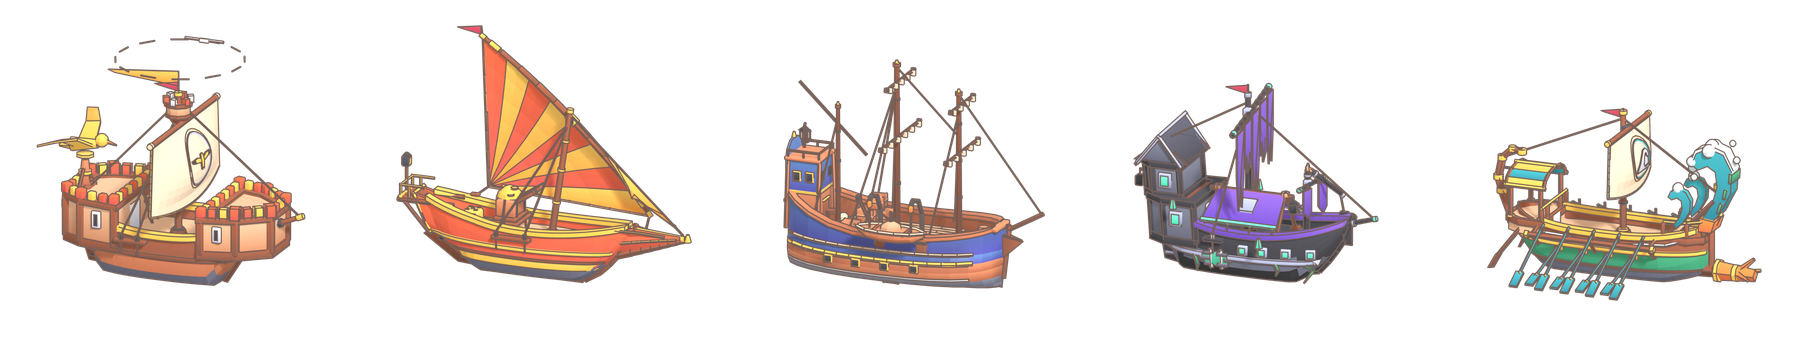
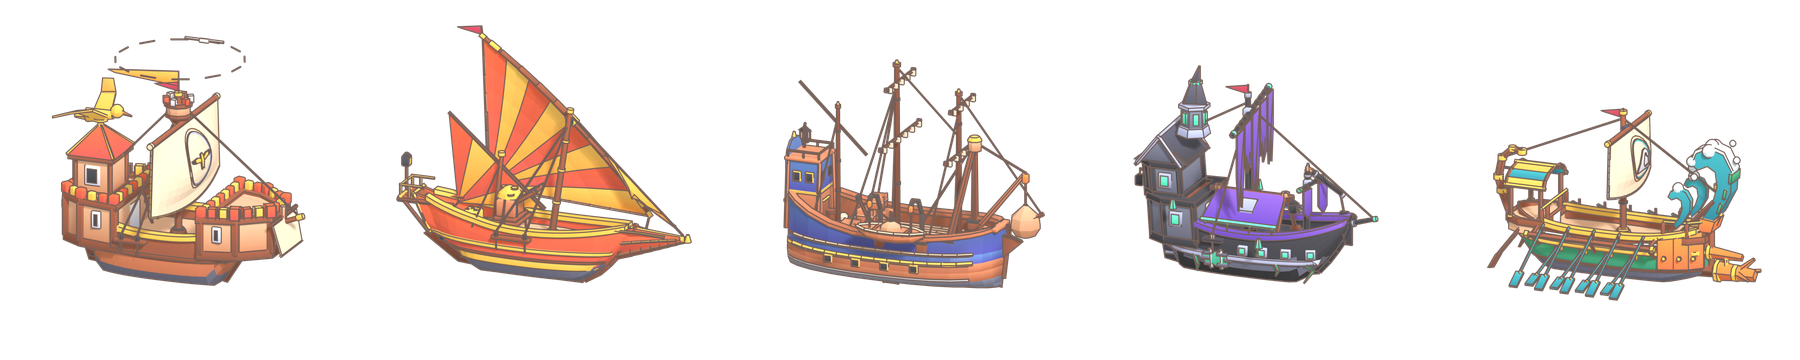
docs: change each ship's structure with its skill in the V0.8 skills design sheet
The user meant the model itself, not only its colours: with the skill open the cog gains a red-roofed lookout tower
and a spritsail, the xebec a second mast and sail, the fluyt a salvage derrick in the bows, the ghost ship a belfry
and a bent spire on its tower, the galley bronze cheek plates and an upper ram. All stay under the ship-pick camera's
5.6 box. Still waiting for approval; nothing is modelled into the ships yet.

diff --git a/scripts/blender/blockout-skills.py b/scripts/blender/blockout-skills.py
@@ -77,16 +77,12 @@ def ball(name, centre, radius, mat):
 
 
 def standard_skill():
-    """好兆頭: a gilded albatross with its wings spread, on a turned post at the aftcastle's stern rail (the ship is
-    named for it; the owner looks at the stern)."""
-    y0 = DECK + 1.05  # the aftcastle's deck
-    z = -2.78
-    box("skill-plinth", (0, y0 + 0.07, z), (0.62, 0.14, 0.5), "woodDark", bevel=0.03)
-    for s in (-1, 1):
-        beam(f"skill-knee{s}", (s * 0.6, y0 + 0.02, z), (s * 0.14, y0 + 0.62, z), 0.1, "woodDark", sides=4)
-    lathe("skill-post", (0, z), [(0.16, y0 + 0.12), (0.11, y0 + 0.4), (0.15, y0 + 0.5), (0.1, y0 + 0.9), (0.2, y0 + 1.0)], "wood", sides=8)
-    lathe("skill-collar", (0, z), [(0.2, y0 + 0.44), (0.2, y0 + 0.54)], "gold", sides=8)
-    lathe("skill-perch", (0, z), [(0.26, y0 + 0.98), (0.26, y0 + 1.06)], "gold", sides=8)
+    """好兆頭: a gilded albatross with its wings spread, perched on the peak of the lookout tower (the ship is named for
+    it; the owner looks at the stern)."""
+    y0 = DECK + 2.0  # the peak of the lookout tower's roof (standard_build)
+    z = -2.3
+    lathe("skill-perch-stem", (0, z), [(0.1, y0 + 0.9), (0.07, y0 + 1.2)], "gold", sides=8)
+    lathe("skill-perch", (0, z), [(0.22, y0 + 1.18), (0.22, y0 + 1.25)], "gold", sides=8)
     yb = y0 + 1.3
     beam("skill-body", (0, yb, z - 0.42), (0, yb + 0.1, z + 0.4), 0.42, "gold", sides=8, taper=0.6)
     ball("skill-head", (0, yb + 0.22, z + 0.52), 0.2, "gold")
@@ -234,6 +230,119 @@ if os.environ.get("LIST_PARTS"):
     import collections
     seen = collections.Counter((re.sub(r"[-.]?[-\d.]+$", "", ob.name), mat) for ob, mat, _ in PARTS)
     print("PARTS", SHIP, sorted(seen.items()))
+def quad_slab(name, pts, thick, mat, axis=(0, 1, 0)):
+    """A thin convex slab on four corner points, thickened along `axis` (a sail, a shield plate, a roof face)."""
+    ax = Vector(axis) * thick
+    verts = [tuple(Vector(p) + ax) for p in pts] + [tuple(Vector(p)) for p in pts]
+    return mesh_from(name, verts, [[0, 1, 2, 3], [7, 6, 5, 4], [0, 4, 5, 1], [1, 5, 6, 2], [2, 6, 7, 3], [3, 7, 4, 0]], mat, convex=True)
+
+
+def standard_build():
+    """The cog is rebuilt as a bigger ship: a roofed lookout tower raised on the aftcastle (the gilded albatross now
+    perches on its peak) and a spritsail set under the bowsprit."""
+    y0, z = DECK + 1.05, -2.3
+    plan = [(0.62, z + 0.55), (0.62, z - 0.55), (-0.62, z - 0.55), (-0.62, z + 0.55)]
+    plan_solid("skill-tower", plan, y0, y0 + 1.15, "sandstone")
+    plan_ring("skill-tower-foot", offset(plan, 0.08), offset(plan, -0.02), y0, y0 + 0.14, "woodDark")
+    plan_ring("skill-tower-eave", offset(plan, 0.16), offset(plan, -0.02), y0 + 1.1, y0 + 1.24, "woodDark")
+    for k, (x, zc) in enumerate(plan):
+        beam(f"skill-tower-post{k}", (x, y0, zc), (x, y0 + 1.15, zc), 0.14, "woodDark", sides=4)
+    for sx in (-1, 1):
+        framed_opening(f"skill-tower-win{sx}", (sx * 0.62, y0 + 0.62, z), (0.3, 0.42), True)
+    framed_opening("skill-tower-win-aft", (0, y0 + 0.62, z - 0.55), (0.34, 0.42), False)
+    # Pyramid roof in the castle's red, with gold hips.
+    apex = (0, y0 + 2.05, z)
+    eaves = offset(plan, 0.18)
+    for k in range(4):
+        (xa, za), (xb, zb) = eaves[k], eaves[(k + 1) % 4]
+        mesh_from(f"skill-roof{k}", [(xa, y0 + 1.22, za), (xb, y0 + 1.22, zb), apex, (xa * 0.9, y0 + 1.16, za * 0.9 + z * 0.1), (xb * 0.9, y0 + 1.16, zb * 0.9 + z * 0.1)],
+                  [[0, 1, 2], [0, 3, 4, 1], [1, 4, 2], [3, 0, 2], [4, 3, 2]], "roofRed", convex=True)
+        beam(f"skill-hip{k}", (xa, y0 + 1.24, za), apex, 0.1, "gold", sides=4, taper=0.5)
+    # Spritsail: a small square sail on its own yard under the bowsprit, gold-hemmed.
+    by, bz = DECK + 0.95, 3.45
+    beam("skill-sprit-yard", (-1.0, by, bz), (1.0, by, bz), 0.1, "woodDark", sides=6)
+    lathe("skill-sprit-sling", (0, bz), [(0.1, by - 0.08), (0.1, by + 0.3)], "rope", sides=6)
+    quad_slab("skill-spritsail", [(-0.9, by - 0.05, bz), (0.9, by - 0.05, bz), (0.78, by - 0.95, bz + 0.22), (-0.78, by - 0.95, bz + 0.22)], 0.05, "canvas", axis=(0, 0, 1))
+    beam("skill-sprit-hem", (-0.8, by - 0.97, bz + 0.25), (0.8, by - 0.97, bz + 0.25), 0.08, "gold", sides=4)
+
+
+def gambler_build():
+    """A second mast: a small lateen mizzen stepped aft, its sail in the same red and gold (a two-masted xebec)."""
+    foot, head = (0.0, DECK - 0.05, -1.25), (0.0, 3.55, -1.0)
+    beam("skill-mizzen", foot, head, 0.16, "woodDark", sides=8, taper=0.7)
+    lathe("skill-mizzen-partner", (0, -1.25), [(0.2, DECK - 0.02), (0.2, DECK + 0.1)], "gold", sides=8)
+    lathe("skill-mizzen-cap", (0, -1.0), [(0.11, 3.5), (0.11, 3.62)], "gold", sides=8)
+    ya, yb = (0.22, 1.95, 0.25), (0.22, 4.55, -2.75)
+    beam("skill-mizzen-yard", ya, yb, 0.11, "woodDark", sides=6, taper=0.7)
+    clew = (0.42, 1.75, -2.55)
+    for k in range(4):
+        t0, t1 = k / 4, (k + 1) / 4
+        p0 = tuple(ya[i] + (yb[i] - ya[i]) * t0 for i in range(3))
+        p1 = tuple(ya[i] + (yb[i] - ya[i]) * t1 for i in range(3))
+        mesh_from(f"skill-mizzen-sail{k}", [p0, p1, clew, (p0[0] + 0.05, p0[1], p0[2]), (p1[0] + 0.05, p1[1], p1[2]), (clew[0] + 0.05, clew[1], clew[2])],
+                  [[0, 1, 2], [5, 4, 3], [0, 3, 4, 1], [1, 4, 5, 2], [2, 5, 3, 0]], "roofRed" if k % 2 else "roofGold", convex=True)
+    beam("skill-mizzen-sheet", clew, (0.4, DECK + 0.3, -2.7), 0.04, "rope", sides=4)
+    for s in (-1, 1):
+        beam(f"skill-mizzen-shroud{s}", (0, 3.3, -1.02), (s * 0.85, DECK + 0.25, -1.6), 0.04, "rope", sides=4)
+
+
+def freighter_build():
+    """A salvage derrick stepped in the bows: two heavy legs to a head block, a jib with a net of salvage on its hook."""
+    feet, head = [(-1.0, DECK + 0.3, 2.15), (1.0, DECK + 0.3, 2.15)], (0.0, 4.35, 2.55)
+    for k, f in enumerate(feet):
+        box(f"skill-derrick-shoe{k}", (f[0], f[1] - 0.06, f[2]), (0.34, 0.3, 0.34), "woodDark", bevel=0.03)
+        box(f"skill-derrick-band{k}", (f[0], f[1] + 0.06, f[2]), (0.38, 0.08, 0.38), "iron", bevel=0.0)
+        beam(f"skill-derrick-leg{k}", f, head, 0.22, "woodDark", sides=6, taper=0.7)
+    lathe("skill-derrick-lash", (0, 2.55), [(0.2, 4.1), (0.2, 4.4)], "rope", sides=8)
+    lathe("skill-derrick-cap", (0, 2.55), [(0.22, 4.4), (0.14, 4.52)], "gold", sides=8)
+    jib = (0.0, 3.6, 4.15)
+    beam("skill-derrick-jib", (0, DECK + 0.6, 2.75), jib, 0.18, "wood", sides=6, taper=0.7)
+    beam("skill-derrick-topping", head, jib, 0.05, "rope", sides=4)
+    beam("skill-derrick-stay", head, (0, DECK + 0.4, 0.9), 0.05, "rope", sides=4)
+    box("skill-derrick-block", (0, 3.42, 4.15), (0.2, 0.26, 0.16), "brass", bevel=0.03)
+    beam("skill-derrick-fall", (0, 3.3, 4.15), (0, 2.55, 4.15), 0.05, "rope", sides=4)
+    lathe("skill-derrick-net", (0, 4.15), [(0.06, 2.6), (0.42, 2.25), (0.46, 1.95), (0.3, 1.7), (0.08, 1.62)], "rope", sides=8)
+    box("skill-derrick-crate", (0.05, 2.0, 4.15), (0.42, 0.4, 0.42), "wood", bevel=0.03, yaw=0.5)
+    beam("skill-derrick-hook", (0, 2.62, 4.15), (0, 2.5, 4.15), 0.12, "iron", sides=6)
+
+
+def hidden_build():
+    """The crooked tower grows a leaning spire with a lit belfry: taller and stranger than a plain ghost ship."""
+    d = design
+    eave = d.TOWER_TOP + 1.0  # the gable roof's ridge
+    cx, cz = 0.32, -2.02
+    lathe("skill-belfry-foot", (cx, cz), [(0.5, eave - 0.2), (0.44, eave + 0.05)], "ghostCloth", sides=6)
+    lathe("skill-belfry", (cx + 0.04, cz), [(0.4, eave + 0.0), (0.36, eave + 0.62)], "slate", sides=6)
+    lathe("skill-belfry-rim", (cx + 0.06, cz), [(0.46, eave + 0.6), (0.46, eave + 0.7)], "ghostCloth", sides=6)
+    for k in range(6):
+        a = math.pi / 3 * k + math.pi / 6
+        box(f"skill-belfry-glow{k}", (cx + 0.05 + math.cos(a) * 0.35, eave + 0.32, cz + math.sin(a) * 0.35), (0.16, 0.34, 0.06), "ghostGlow", bevel=0.0, yaw=-a + math.pi / 2)
+    # The spire leans the tower's way, bent again near its tip.
+    beam("skill-spire-a", (cx + 0.07, eave + 0.68, cz), (cx + 0.28, eave + 1.3, cz - 0.05), 0.8, "basalt", sides=6, taper=0.4)
+    beam("skill-spire-b", (cx + 0.28, eave + 1.28, cz - 0.05), (cx + 0.52, eave + 1.72, cz - 0.02), 0.32, "basalt", sides=6, taper=0.15)
+    lathe("skill-spire-band", (cx + 0.28, cz - 0.05), [(0.2, eave + 1.24), (0.2, eave + 1.34)], "ghostGlow", sides=6)
+
+
+def breaker_build():
+    """A heavier prow: bronze cheek plates armour both bows, and the ram carries a second, upper beak above the first."""
+    d = design
+    zb = d.stem_z(0.45)
+    beam("skill-upper-ram", (0, 1.05, zb - 0.1), (0, 0.98, 4.05), 0.4, "brass", sides=4, taper=0.5)
+    beam("skill-upper-ram-collar", (0, 1.05, zb - 0.02), (0, 1.05, zb + 0.1), 0.48, "gold", sides=8)
+    beam("skill-ram-strut", (0, 0.55, 3.55), (0, 1.0, 3.55), 0.14, "gold", sides=6)
+    for s in (-1, 1):
+        zs = [1.75, 2.2, 2.6, 2.95]
+        for k in range(len(zs) - 1):
+            z0, z1 = zs[k], zs[k + 1]
+            x0, x1 = d.outer_x(z0, 1.0) + 0.05, d.outer_x(z1, 1.0) + 0.05
+            quad_slab(f"skill-cheek{s}{k}", [(s * x0, d.sheer(z0) - 0.02, z0), (s * x1, d.sheer(z1) - 0.02, z1), (s * x1, 0.62, z1), (s * x0, 0.62, z0)], 0.06, "brass", axis=(s, 0, 0))
+            beam(f"skill-cheek-rivet{s}{k}", (s * (x0 + 0.08), 1.0, (z0 + z1) / 2), (s * (x0 + 0.14), 1.0, (z0 + z1) / 2), 0.14, "gold", sides=6)
+        beam(f"skill-cheek-rail{s}", (s * (d.outer_x(1.75, 1.0) + 0.09), d.sheer(1.75) + 0.02, 1.75), (s * (d.outer_x(2.95, 1.0) + 0.09), d.sheer(2.95) + 0.02, 2.95), 0.1, "gold", sides=4)
+
+
+BUILDS = {"standard": standard_build, "gambler": gambler_build, "freighter": freighter_build, "hidden": hidden_build, "breaker": breaker_build}
+
+
 # The upgraded livery: with the skill open the ship itself looks richer, not only one part more. Each entry repaints
 # the parts whose name starts with the prefix (and whose swatch is the one named, when given) in a new swatch.
 LIVERY = {
@@ -279,6 +388,7 @@ SKILLS = {"standard": standard_skill, "gambler": gambler_skill, "freighter": fre
 first_skill = len(PARTS)
 if SHIP in SKILLS:
     SKILLS[SHIP]()
+    BUILDS[SHIP]()
     livery_trims()
 skill_obs = [ob for ob, _, _ in PARTS[first_skill:]]
 colour_parts(band=band)

diff --git a/docs/proposals/2026-11-v08-presentation-plan.md b/docs/proposals/2026-11-v08-presentation-plan.md
@@ -70,7 +70,7 @@
 | 0. 畫面說真話 | 完成（2026-11-16）：船卡是掉箱表（含自己的建築、風暴潮、這回合的修正）；回合數不寫總數，最後一回合會標出；選島卡、島徽章、排行的自由港與燈塔島文字；左上角常駐暗潮晶片（兩個候選 → 揭曉後那一種，滑過看效果與擋得住的）。暗潮晶片的圖示是暫用的，第 4 步再做。 |
 | 1. 出航結算（件數制） | 完成（2026-11-17）：結算拍先打開貨艙，掉的箱子一箱一箱被拋出船舷落水（水花、水面圈、落水處跳「−1」與貨的圖示），船旁的標籤把掉的箱子劃掉並寫「掉 N 箱」，掉完船才進港。資料只用引擎的公開事件（`ship-resolved.lost`）；掉的是哪幾箱是準的，演出的先後順序固定照軍火、香料、鐵礦、木材。預覽：`/v07.html?dev=beat3d&v08`。還沒做：掉箱的音效、孤注號與海嘯號倍率的演出、沉船時整船貨的演出沒變。 |
 | 2. 材料動作與建築 | 進行中（2026-11-17）：舊的四棟程式碼建築不沿用（使用者：不夠精緻，都是多邊體堆砌而成），三棟都在 Blender 重做。粗模設計稿 [`../art/facilities-concept.png`](../art/facilities-concept.png)（`scripts/blender/blockout-facilities.py`）方向使用者已確認（2026-11-17）：主要特徵朝島的後方（你看自己的島時看到的那一面），碼頭側、側面也各有東西；粗模細修中，下一步匯出 GLB 放上島。材料動作的操作還沒做。 |
-| 3. 船技能 | 進行中（2026-11-17）：五個零件的粗模設計稿 [`../art/skills-concept.png`](../art/skills-concept.png)（`scripts/blender/blockout-skills.py`）**待使用者確認**：信天翁號＝船尾城樓上的鍍金信天翁、孤注號＝賭桌上打開的金幣箱、巨鯨號＝舷外吊架上的打撈艇、幽靈號＝罩住甲板的紫色遮布與暗燈、海嘯號＝船首的捲浪雕飾。使用者要求（2026-11-17）：除了零件，船本身的外觀也要變，讓人感覺升級了；設計稿已加上每艘船的升級外觀（鍍金城垛與長金旗、紅金條紋帆、金腰帶、紫色破帆、青綠槳與白浪紋）。確認前不建模。加注的宣告與觸發演出還沒做。 |
+| 3. 船技能 | 進行中（2026-11-17）：五個零件的粗模設計稿 [`../art/skills-concept.png`](../art/skills-concept.png)（`scripts/blender/blockout-skills.py`）**待使用者確認**：信天翁號＝船尾城樓上的鍍金信天翁、孤注號＝賭桌上打開的金幣箱、巨鯨號＝舷外吊架上的打撈艇、幽靈號＝罩住甲板的紫色遮布與暗燈、海嘯號＝船首的捲浪雕飾。使用者要求（2026-11-17）：除了零件，船本身的外觀也要變，讓人感覺升級了；設計稿已加上每艘船的升級外觀（鍍金城垛與長金旗、紅金條紋帆、金腰帶、紫色破帆、青綠槳與白浪紋）。使用者再說明（2026-11-17）：不只換色，連同建模都要有變化；設計稿再加上每艘船結構上的升級（信天翁號船尾加紅頂瞭望塔與船首斜桅帆、孤注號加第二根桅、巨鯨號船首加起重架、幽靈號歪塔長出鐘樓與尖塔、海嘯號船首包銅甲與第二支上撞角），高度都不超過選船鏡頭的 5.6。確認前不建模。加注的宣告與觸發演出還沒做。 |
 | 4 | 未開始 |
 
 已知還沒處理：規則書面板（`RulesPanel`）、貨物說明（`GoodIcon`）、通緝令文字還是讀正式規則；結算拍的骰值上限與角色加成兩處也寫死正式規則，但這兩處的數值原型沒改，結果相同。
